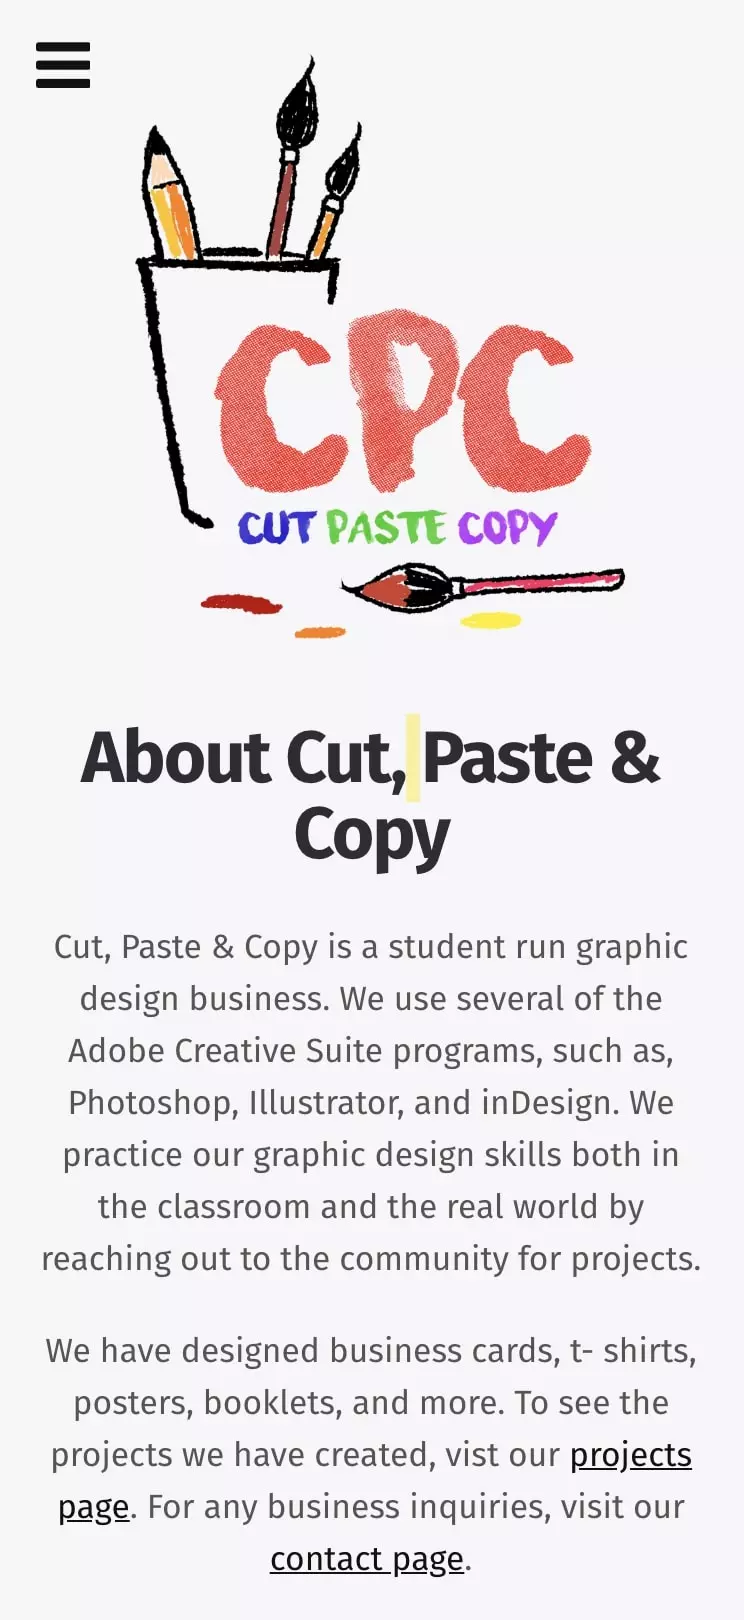
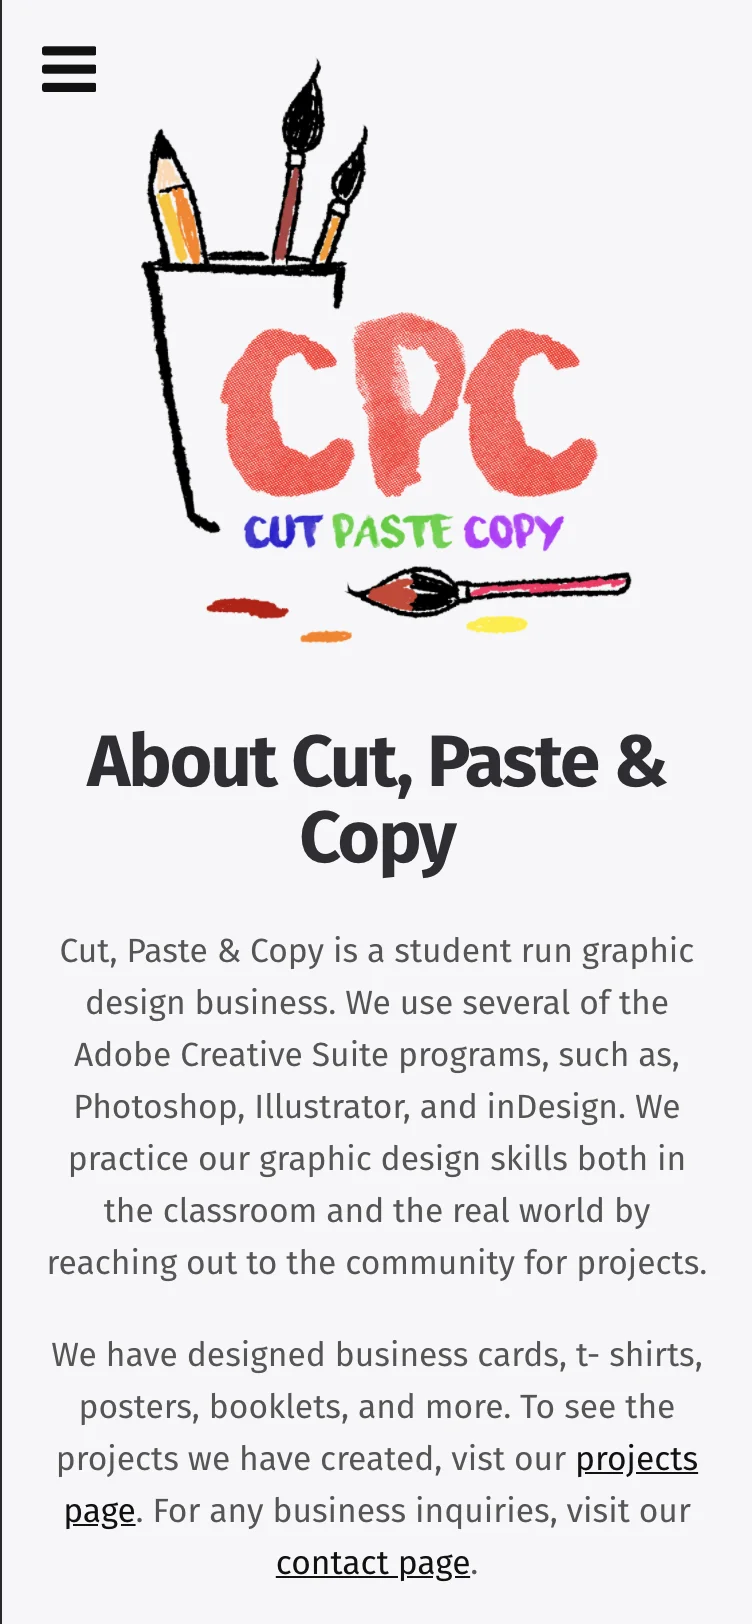
fixed navigation issues

diff --git a/src/sections/Work/components/Product/index.scss b/src/sections/Work/components/Product/index.scss
@@ -112,27 +112,30 @@
 .mobile {
   position: absolute;
   right: 0;
-  top: 18px;
+  top: 26px;
 
   width: 32%;
-  min-height: 50px;
 
+  min-height: 50px;
   border-radius: 2px;
+
   border: 2px solid var(--black);
-  border-width: 2px 2px 14px 2px;
-  box-shadow: 1px 1px 20px -5px rgba(var(--black), .5);
+  border-width: 5px 5px 5px 5px;
+
+  box-shadow: 1px 1px 20px -5px rgba(var(--black), 0.5);
 
   &::before {
 	content: "";
 
 	position: absolute;
-	bottom: -10px;
-	left: calc(50% - 3px);
+	bottom: 2px;
+	left: calc(50% - 16px);
 
-	width: 6px;
-	height: 6px;
+	width: 32px;
+	height: 2px;
 
-	background: var(--white);
-	border-radius: 50%;
+	background: var(--black);
+
+	border-radius: 5px;
   }
 }

diff --git a/src/components/Nav/Nav.js b/src/components/Nav/Nav.js
@@ -41,14 +41,26 @@ class Nav extends React.Component {
 	};
 
 	render() {
-		const { isNavigationOpened } = this.context;
+		const { isNavigationOpened, isMobile } = this.context;
 
 		return (
 			<div ref={node => { this.node = node; }}>
-				<Toggle handleClick={this.handleClick} />
+				{
+					isMobile
+						?
+							<Toggle handleClick={this.handleClick}/>
+						:
+							''
+				}
 				<div
 					id={"navigation-container"}
-					className={isNavigationOpened ? 'opened' : 'closed'}
+					className={
+						isMobile
+							?
+								isNavigationOpened ? 'opened' : 'closed'
+							:
+								'opened'
+					}
 				>
 					{
 						Logo(

diff --git a/src/utilities/utilities.js b/src/utilities/utilities.js
@@ -1,0 +1,24 @@
+export const isMobile = {
+	Android: function() {
+		return navigator.userAgent.match(/Android/i);
+	},
+	BlackBerry: function() {
+		return navigator.userAgent.match(/BlackBerry/i);
+	},
+	iOS: function() {
+		return navigator.userAgent.match(/iPhone|iPad|iPod/i);
+	},
+	Opera: function() {
+		return navigator.userAgent.match(/Opera Mini/i);
+	},
+	Windows: function() {
+		return navigator.userAgent.match(/IEMobile/i);
+	},
+	any: function() {
+		return (isMobile.Android() || isMobile.BlackBerry() || isMobile.iOS() || isMobile.Opera() || isMobile.Windows());
+	}
+};
+
+export default {
+	isMobile
+}

diff --git a/src/context/Provider.js b/src/context/Provider.js
@@ -2,12 +2,15 @@ import React, { Component } from 'react'
 
 import Context from './Context'
 
+import { isMobile } from "../utilities/utilities";
+
 class Provider extends Component {
 	constructor(props) {
 		super(props);
 
 		this.state = {
 			isNavigationOpened: false,
+			isMobile: isMobile.any(),
 		}
 	}
 

diff --git a/src/sections/Work/Work.js b/src/sections/Work/Work.js
@@ -43,7 +43,7 @@ const Work = () => (
 					?
 						require("../../assets/images/products/cut-paste-copy_mobile.webp")
 					:
-						require("../../assets/images/products/cut-paste-copy_mobile.jpg")
+						require("../../assets/images/products/cut-paste-copy_mobile.png")
 				)
 			}
 		</div>

diff --git a/src/components/Nav/components/Toggle/index.scss b/src/components/Nav/components/Toggle/index.scss
@@ -1,13 +1,13 @@
 #toggle {
   position: fixed;
-  top: 0;
+  top: -5px;
   left: inherit;
 
   z-index: 9999;
 
-  transition: all 0.5s ease-in-out;
+  transition: left 0.5s ease-in-out;
 
   &.opened {
-	left: 145px;
+	left: 130px;
   }
 }

diff --git a/src/components/Nav/components/Toggle/Toggle.js b/src/components/Nav/components/Toggle/Toggle.js
@@ -21,7 +21,7 @@ const Toggle = (props) => {
 				onClick={props.handleClick}
 				active={isNavigationOpened}
 				color="black"
-				burger="collapse"
+				burger="boring"
 				scale={0.8}
 			/>
 		</Animate>

diff --git a/src/sass/base/_variables.scss b/src/sass/base/_variables.scss
@@ -16,6 +16,7 @@
   --blackbird: #3c4156;
   --mack-media-group: #80bd01;
   --ibm: #5392ff;
+  --git: #fd7e14;
   //- Scrollbar
   --scrollbar: var(--white);
   --scrollbar-bg: var(--black);

diff --git a/src/components/Nav/index.scss b/src/components/Nav/index.scss
@@ -10,7 +10,6 @@
   width: 130px;
   text-align: left;
   z-index: 999;
-  transition: left 0.3s ease-in-out;
 
   &.opened {
 	left: 0;

diff --git a/src/sections/OpenSource/index.scss b/src/sections/OpenSource/index.scss
@@ -17,5 +17,5 @@
 
 #open-source > .title > .fa-git-alt {
   font-size: 2.5rem;
-  color: #fd7e14;
+  color: var(--git);
 }
